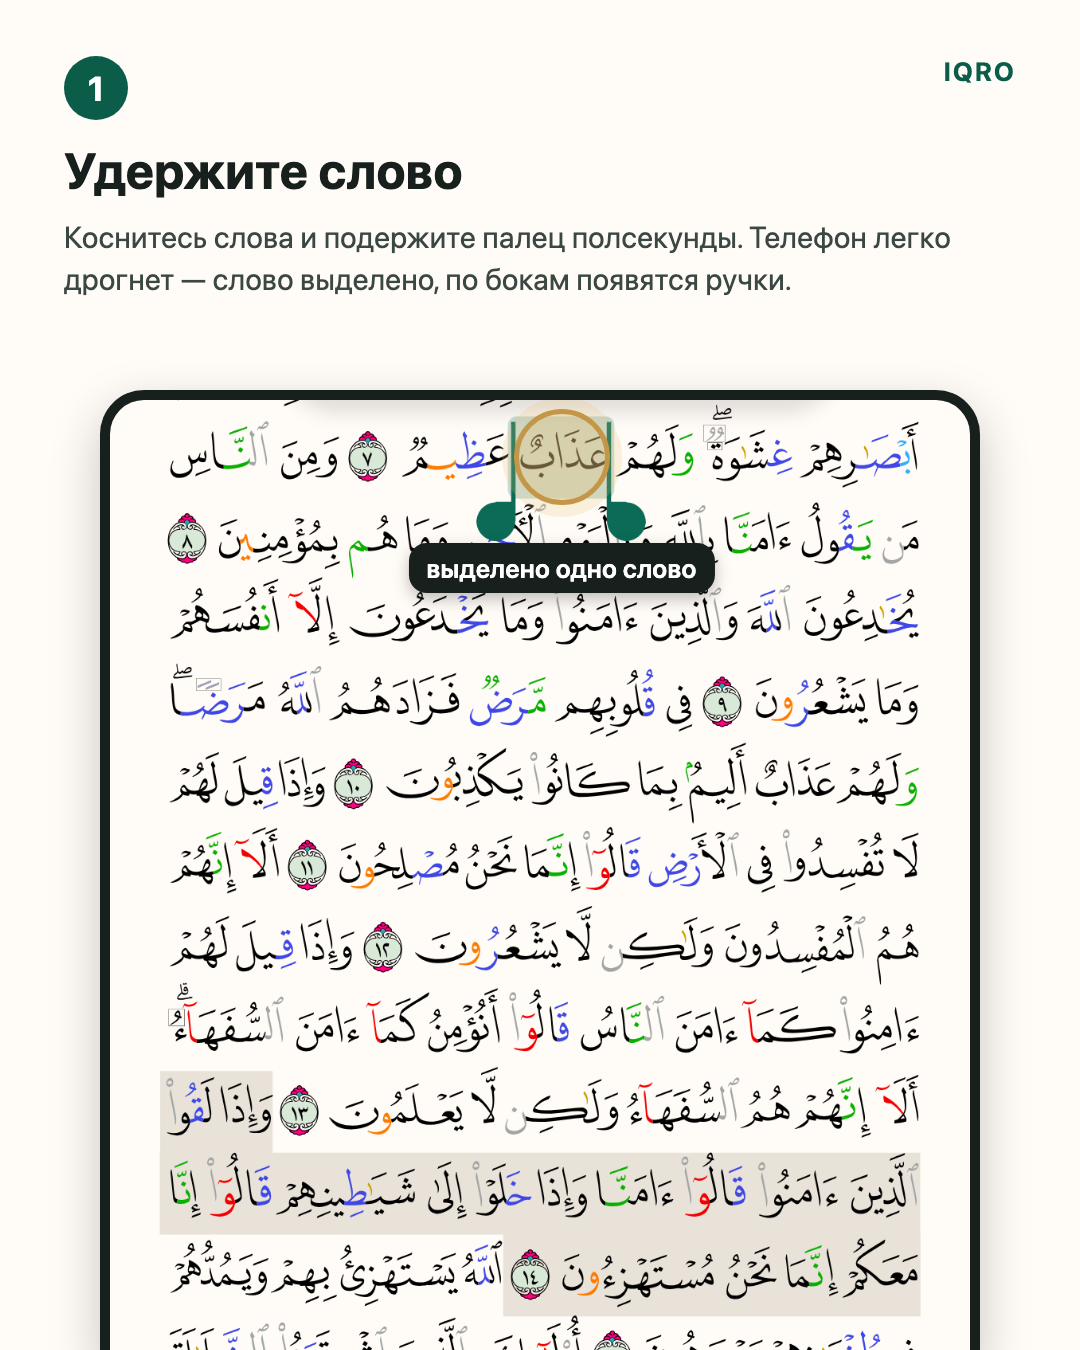
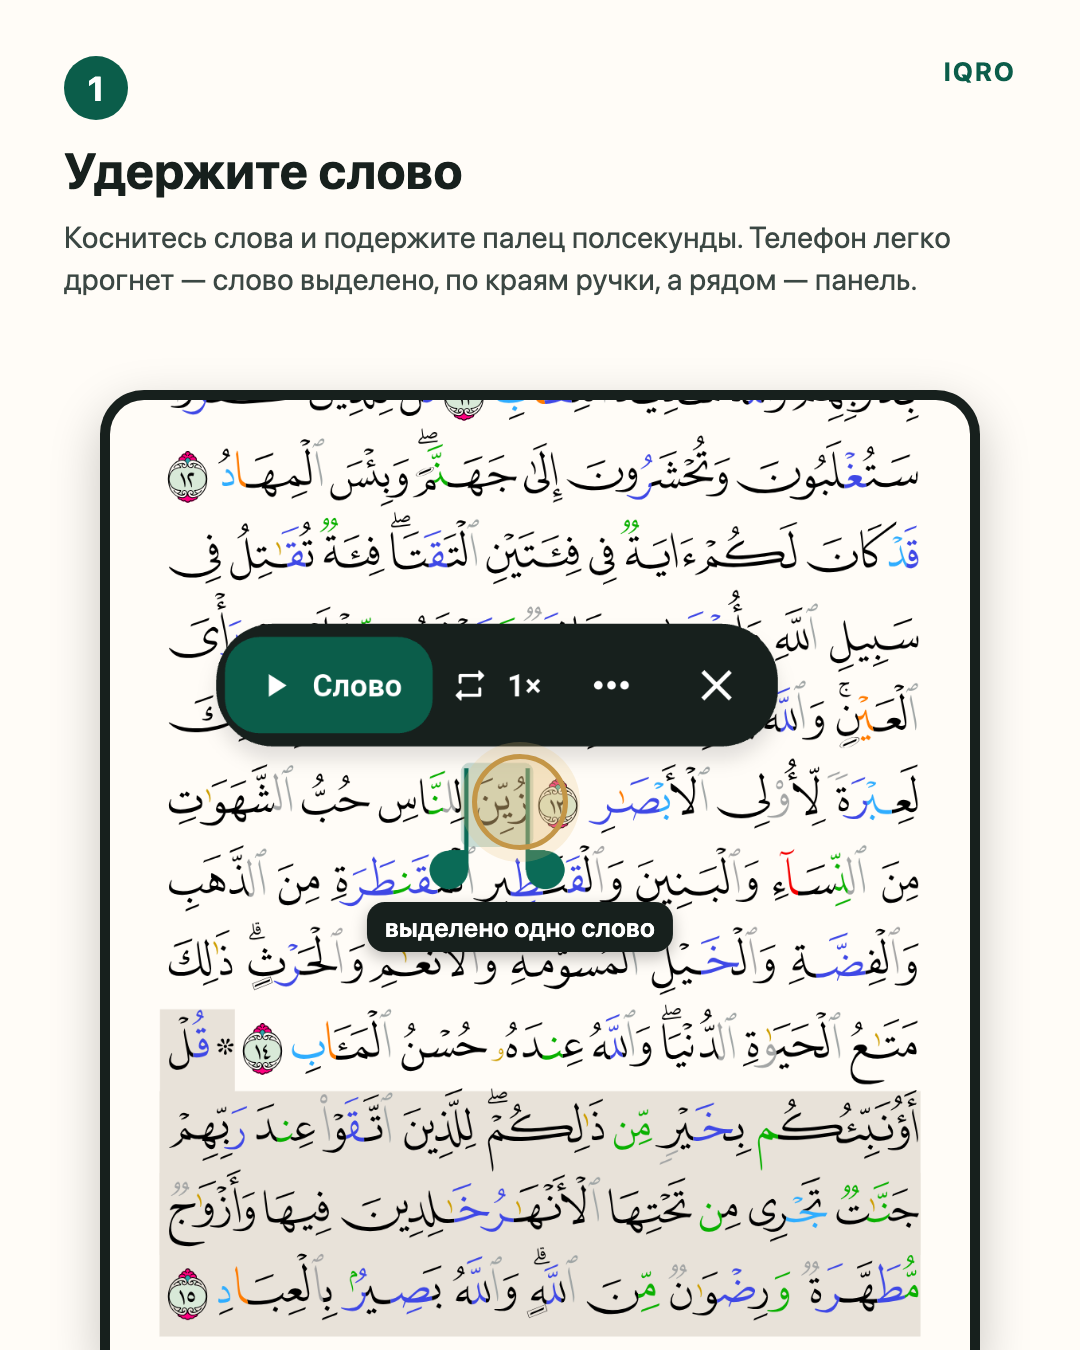
docs: user guide for the Mushaf text button; dark panel in the word guide

Changed region(s): [[0.1222, 0.28, 0.8556, 1.0], [0.4583, 0.1867, 0.7333, 0.2178], [0.7639, 0.1867, 0.8556, 0.2178]]

diff --git a/docs/guides/mushaf-text-switch/README.md b/docs/guides/mushaf-text-switch/README.md
@@ -1,0 +1,29 @@
+# Мусхаф: переход в текст одной кнопкой
+
+Из Мусхафа можно сразу открыть текстовый режим на том же аяте: внизу слева теперь кнопка «Текст». Масштаб, закладки, заметки и «Сейчас играет» — в меню аята.
+
+**Где найти:** «Коран» → режим «Мусхаф»: коснитесь страницы, чтобы показать кнопки.
+
+**Сайт и приложение:** в приложении кнопка «Текст» внизу слева; на сайте в полноэкранном Мусхафе на телефоне — кнопка «Перейти к тексту» рядом с выходом, на компьютере — переключатель «Текст / Мусхаф» над чтением.
+
+## Кнопка «Текст» в Мусхафе
+
+![Кнопка «Текст» в Мусхафе](1-app-text-button.png)
+
+Хотите прочитать перевод или тафсир того места, что открыто в Мусхафе? Коснитесь аята, затем кнопки «Текст» внизу слева — откроется текстовый режим на этом же аяте. Вернуться в Мусхаф — значок книги вверху.
+
+## Масштаб и закладки — в меню аята
+
+![Масштаб и закладки — в меню аята](2-app-ayah-menu.png)
+
+Раньше эти пункты были в отдельном меню «⋯». Теперь всё в одном месте — в меню аята, кнопка справа внизу. Масштаб, закладки и заметки работают и без интернета.
+
+## На сайте — кнопка «Перейти к тексту»
+
+![На сайте — кнопка «Перейти к тексту»](3-site-phone.png)
+
+На сайте так же: в полноэкранном Мусхафе на телефоне кнопка «Перейти к тексту» открывает текст на том же месте. На компьютере для этого служит переключатель «Текст / Мусхаф» над чтением.
+
+---
+
+Основа снимков: Redmi Note 7, сборка из main 59c9b99b, 4 ноября 2026; сайт — телефон 390×844, тестовые данные.

diff --git a/docs/guides/word-selection/README.md b/docs/guides/word-selection/README.md
@@ -5,7 +5,7 @@
 
 | Картинка | Подпись |
 | --- | --- |
-| `01-hold-word.png` | **Удержите слово.** Коснитесь слова и подержите палец полсекунды. Телефон легко дрогнет — слово выделено, по бокам появятся ручки. |
+| `01-hold-word.png` | **Удержите слово.** Коснитесь слова и подержите палец полсекунды. Телефон легко дрогнет — слово выделено, по краям ручки, а рядом — панель «▶ Слово». |
 | `02-drag.png` | **Не отпуская, ведите палец.** Выделение растёт до нужного слова, даже через несколько аятов. Над пальцем — лупа, чтобы видеть слово под ним. |
 | `03-panel.png` | **Панель рядом со словами.** Отпустили палец — над выделением появляется маленькая панель: ▶ слушать, повтор, «⋯» меню аята, ✕ снять выделение. Она никогда не закрывает выбранные слова. |
 | `04-listen-repeat.png` | **Слушайте и повторяйте.** ▶ — звучит ровно выбранное. Звучащее слово подсвечено золотом, на панели видно «Слово 2 из 4». Кнопка повтора: 1× → 3× → без конца. |

diff --git a/docs/guides/README.md b/docs/guides/README.md
@@ -27,6 +27,8 @@
 | [Таджвид: правило по нажатию](tajweed-rules/README.md) | сайт и приложение | 3 |
 | [Заметки и цветные выделения](ayah-notes-highlights/README.md) | сайт и приложение | 2 |
 | [Заучивание: «Выучить» из Мусхафа](memorization-list/README.md) | сайт и приложение | 2 |
+| [Прослушать слово или отрывок аята](word-selection/README.md) | сайт и приложение | 9 |
+| [Мусхаф: переход в текст одной кнопкой](mushaf-text-switch/README.md) | сайт и приложение | 3 |
 
 ## Аудио
 
@@ -45,8 +47,6 @@
 | [Первый запуск приложения](first-launch/README.md) | приложение | 3 |
 | [«Что нового» в IQRO](announcements/README.md) | сайт и приложение | 3 |
 | [Виджет «План на день»](plan-widget/README.md) | приложение | 1 |
-
-Выделение слов в Мусхафе (прослушать слово или отрывок) — отдельная папка `word-selection/`, её готовит сессия этой функции.
 
 ## Как сделать инструкцию для новой функции
 

diff --git a/docs/tech-debt.md b/docs/tech-debt.md
@@ -321,6 +321,11 @@ Threads [@iqro.forum](https://www.threads.net/@iqro.forum).
 
 ### Приложение (аудит 4.8)
 
+- Текстовый режим при первом открытии встаёт на 3–4 аята ниже нужного (из Мусхафа по кнопке
+  «Текст» на 3:15 открылось 3:18–3:19, повторно — точно; Redmi Note 7, 04.11.2026).
+  `_restorePosition` в `reader_screen.dart` доводит до аята, пока переводы и тафсир грузятся;
+  когда они появляются, карточки выше меняют высоту. Нужно доводить ещё раз после загрузки,
+  пока пользователь сам не листал.
 - Медиа-сессия для контекстного аудио (Мусхаф, ду‘а, заучивание): управление с экрана
   блокировки и foreground service на Android.
 - Медиа-контролы next/prev и stop, автопереход на следующую суру; Мусхаф сейчас играет

diff --git a/docs/mushaf/reader-controls.md b/docs/mushaf/reader-controls.md
@@ -44,4 +44,10 @@
 
 ## Снимки
 
-`docs/images/mushaf-text-switch-2026-11-04/`.
+Картинки-инструкции с телефона (Redmi Note 7, сборка из main 59c9b99b) и сайта:
+[docs/guides/mushaf-text-switch/](../guides/mushaf-text-switch/README.md).
+
+При проверке на Redmi первое открытие текста встало на 3–4 аята ниже выбранного (3:15 → 3:18–3:19),
+повторное — точно. Это старая прокрутка текстового режима (`_restorePosition` в `reader_screen.dart`):
+она доводит до аята, пока переводы ещё грузятся, и после загрузки карточки выше меняют высоту.
+Записано отдельной задачей.
